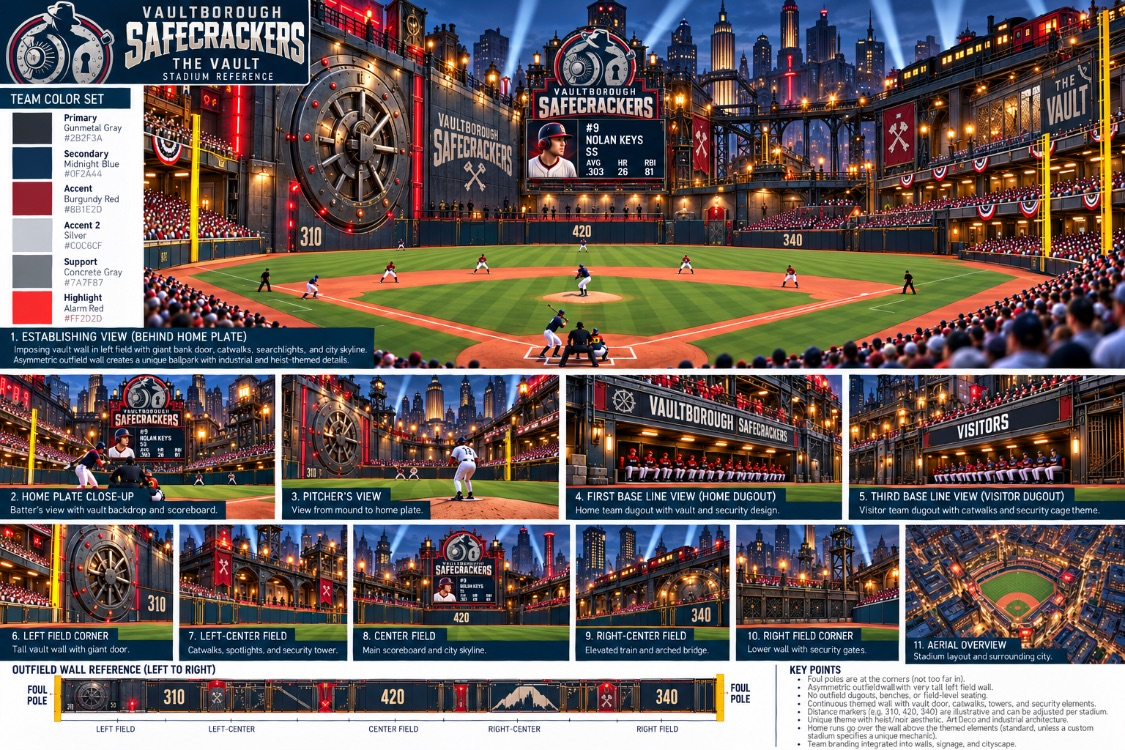
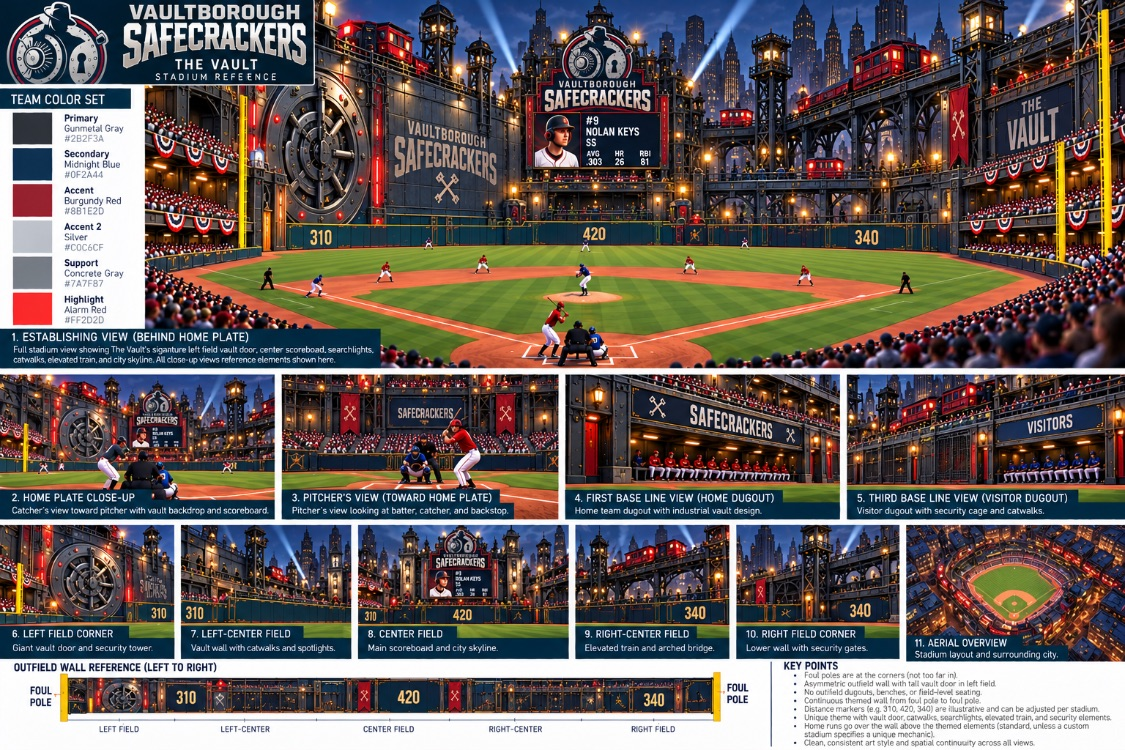
The Vault from its revised sheet; note the Pinecrest Loggers
Claude-Session: https://claude.ai/code/session_01PsCp2G5H7Zqre39tL8b4KQ

diff --git a/docs/stadium_refs/NOTES.md b/docs/stadium_refs/NOTES.md
@@ -163,6 +163,10 @@ points. The Foundry sheet also has a six-color team set.
   - a giant bank-vault door in a tall wall over left field;
   - searchlights, catwalks, an elevated train and an arched bridge;
   - a dense Art Deco skyline, bunting.
+- Version 2 of the sheet (same colors):
+  - the line-score board is gone (the centerpiece carries the batter);
+  - a big "VAULTBOROUGH SAFECRACKERS" sign stands beside the vault door in left-center, and "THE VAULT" in right;
+  - lookout and security towers, catwalks.
 - The sheet's very tall left-field wall stays out, by the rule that the sheets don't change field dimensions. The Vault keeps its walls and fast turf. The door stands behind the left-field stands instead.
 - Team colors:
   - Primary: Gunmetal Gray #2B2F3A
@@ -179,6 +183,8 @@ points. The Foundry sheet also has a six-color team set.
 
 - **Sandstone Legion:** a Roman colosseum park with sandstone arcades, flaming braziers, statues, red banners and twin waterfalls.
 - **Tidal Reign, Harbor Stadium:** a nautical harbor with cliffs, waterfalls, a lighthouse and tall ships, a trident emblem.
+
+- **Pinecrest Loggers, Timberfall Park:** a mountain lumber town with waterfalls, a sawmill wheel, a log crane, timber stacks and pines.
 
 Owner's rule: new clubs and parks are noted here for later; the eleven listed parks come first. The Vault (the Safecrackers' dome) sheet hasn't come yet.
 

diff --git a/docs/DECISIONS.md b/docs/DECISIONS.md
@@ -960,3 +960,16 @@ To bring the parks closer to the reference sheets, the stadiums now use free ass
 Reason: Owner request to use free assets to bring the parks closer to the reference sheets.
 
 Affected systems: StadiumSurfaces, ModelKit (new), StadiumDef (surfaces, facade_color), Stadium (bowl facade and ground meshes, box surfaces), GrayboxField (walls), many modules, generate_parks, data, tests, manifest, README.
+
+## 2026-10-21 - The Vault, Sheet Version 2
+
+- **Vault changes:** the owner's revised Vault sheet keeps the palette and layout, so the changes are small:
+  - the line-score board comes out (the centerpiece carries the batter);
+  - a "VAULTBOROUGH SAFECRACKERS" sign stands in left-center beside the vault door (moved to -37°);
+  - the "THE VAULT" slogan board stays in right.
+- **Sign text:** long names on slogan boards now shrink to fit and wrap only between words.
+- **New club noted:** the Pinecrest Loggers (Timberfall Park) sheet is saved under `docs/stadium_refs/proposed/`, not built.
+
+Reason: Owner reference sheet.
+
+Affected systems: generate_parks, slogan board module, stadium_refs notes.
